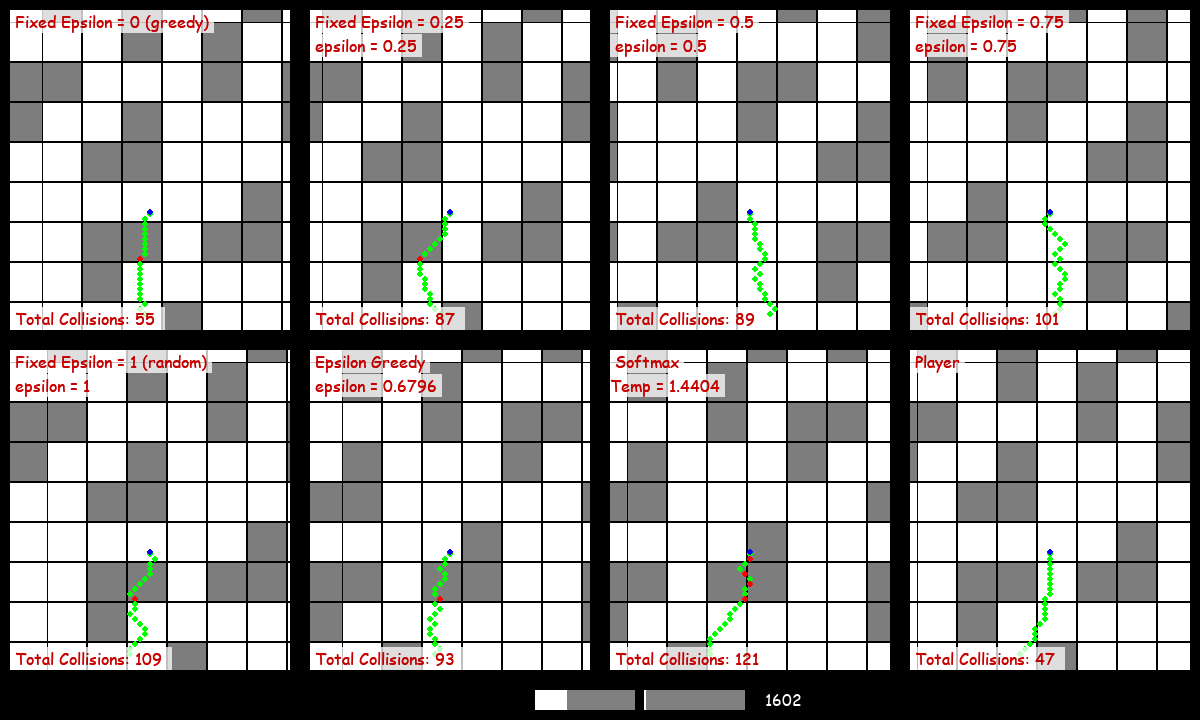
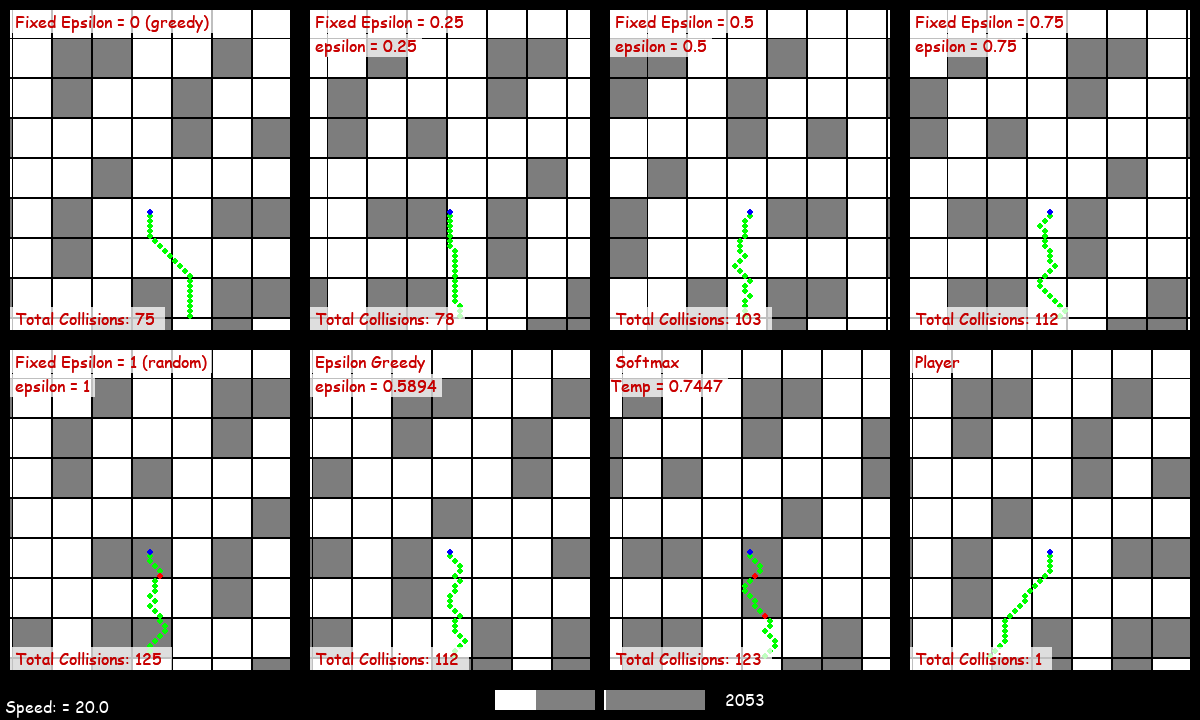
Resized window + added speed indicator

diff --git a/ui.py b/ui.py
@@ -64,7 +64,12 @@ class UI:
         cur_y -= 2
         textSurface = self.font.render(str(iter_val), 1, (255,255,255)) # white
         surface.blit(textSurface, (cur_x,cur_y))
+    def DrawSpeedIndicator(self,surface,state_delay):
+        speedText = " Speed: = {} ".format(round(1000/state_delay,1))
+        textSurface = self.font.render(speedText, 1, (255,255,255)) # white
+        surface.blit(textSurface, (0, self.window_y_len - 25))
     def DrawGame(self,window,game,lerp_alpha,iter_val):
         window.fill((0,0,0)) # this is required since IterNum text needs to be cleared
         self.DrawGameSurfaces(window,game,lerp_alpha)
         self.DrawProgressInfo(window,iter_val)
+        self.DrawSpeedIndicator(window,game.state_delay)

diff --git a/cubefield.py b/cubefield.py
@@ -162,7 +162,7 @@ def main(iterations = 2*DEFAULT_ITERATIONS):
     # initialize pygame
     pygame.init()
 
-    WINDOW_X_LEN = 1280
+    WINDOW_X_LEN = 1200 # 1280
     WINDOW_Y_LEN = 720
     mainwindow = pygame.display.set_mode((WINDOW_X_LEN,WINDOW_Y_LEN)) # this gets UI drawn on top
     mainui = ui.UI(game, DEFAULT_ITERATIONS, iterations, WINDOW_X_LEN, WINDOW_Y_LEN)
